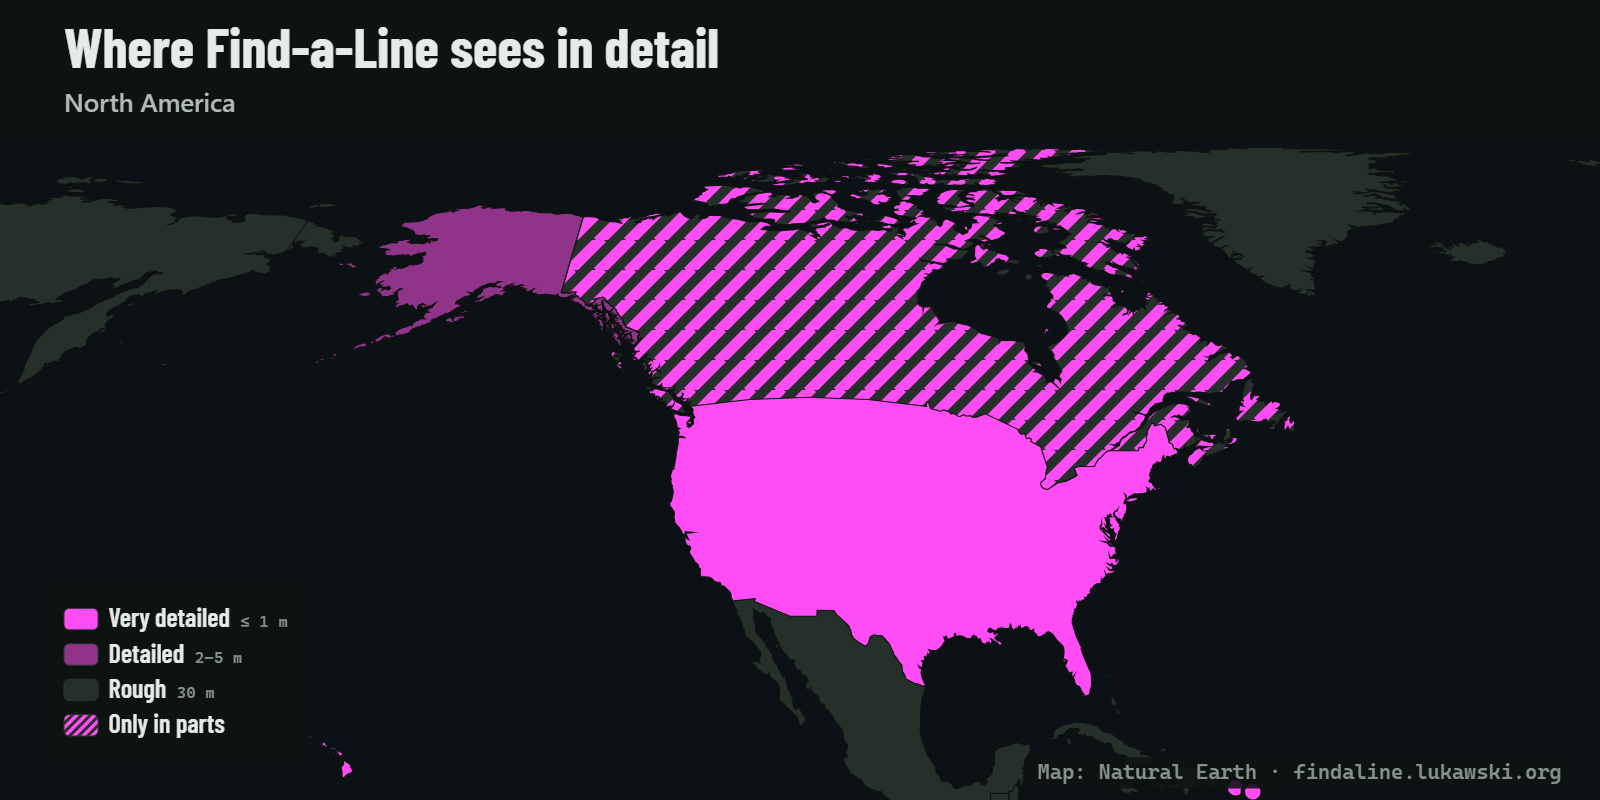
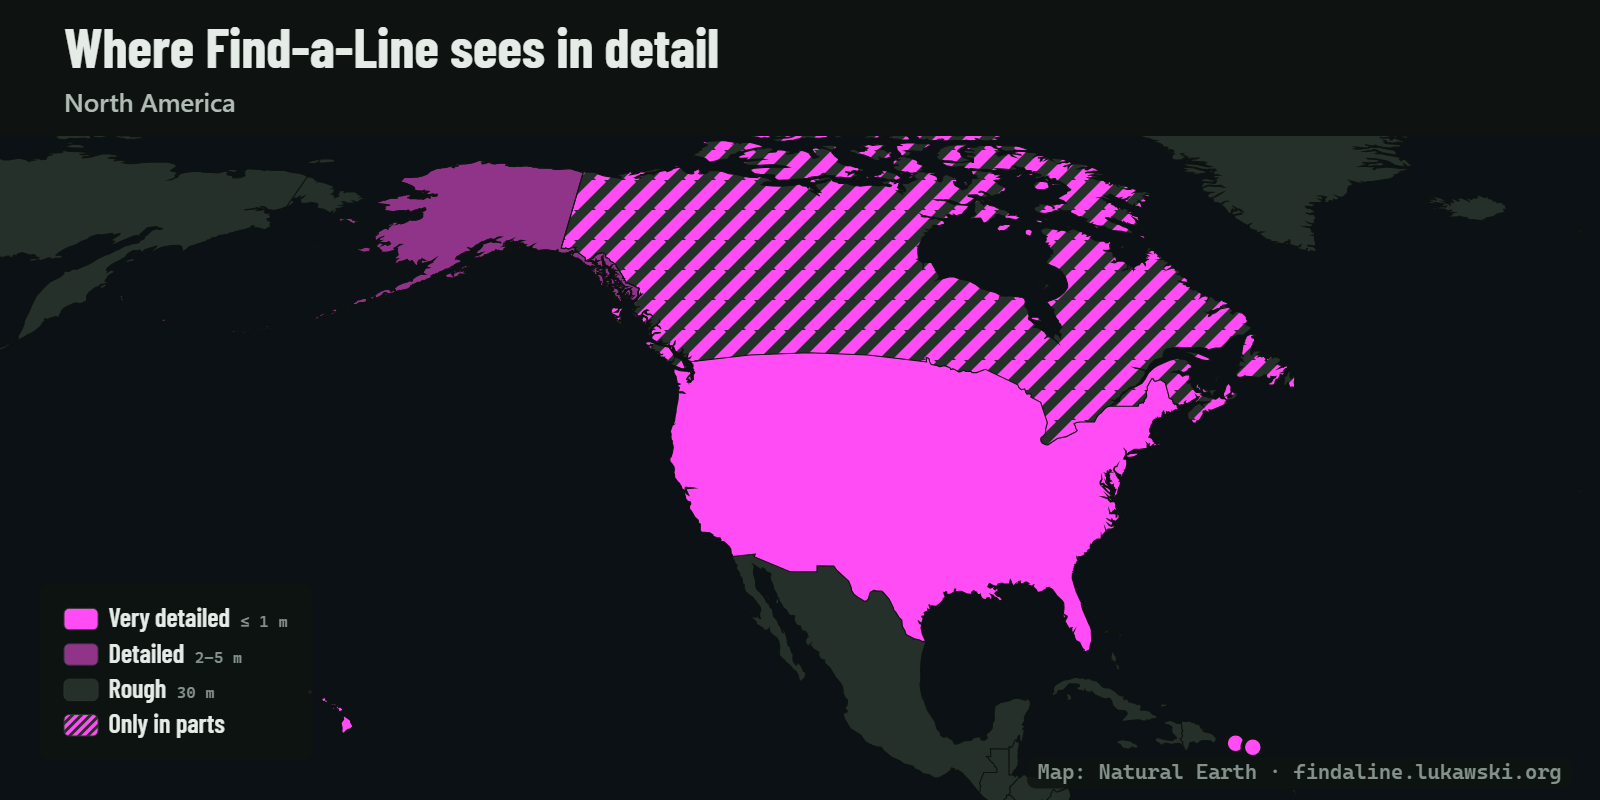
Coverage map, wave 2: cameras centred on the projected box, the tour's full legend, credits without a second label
- camFor centres a zoomed map on the middle of its projected box, not of its latitudes (Equal Earth packs the
  degrees towards the poles: Malta in Europe and Puerto Rico in North America fell off the frame); the world keeps
  its centre
- the tour's legend has the "Only in parts" row while hatched areas are shown
- a place's credit leaves out our "Data:" when the provider's attribution starts with a label of its own
- README and CLAUDE.md: the usage of tools/coverage_media.py; roadmap: the decisions of wave 2
- docs/images/coverage-* rendered again (the world images unchanged)

Stored data: none changed (no migration).

Changed region(s): [[0.0, 0.1562, 0.875, 1.0], [0.9062, 0.25, 0.9375, 0.3438], [0.75, 0.9688, 0.8125, 1.0]]

diff --git a/viewer/src/coverage/media/scenes.ts b/viewer/src/coverage/media/scenes.ts
@@ -28,9 +28,11 @@ export function placeCredit(place: string, lang: Lang): string {
   const c = got().contrast.places[place]?.fine.credits[0];
   if (!c) return "";
   // the year of the searches is in the credits (tools/coverage_contrast.py); the licence once, when the
-  // provider's attribution does not name it already ("©Kartverket, CC BY 4.0, processed")
-  const key = c.attribution.includes(c.licence) ? "media.data_credit_short" : "media.data_credit";
-  return ct(lang, key, {attribution: c.attribution, licence: c.licence});
+  // provider's attribution does not name it already ("©Kartverket, CC BY 4.0, processed"); without our
+  // "Data:" when the attribution starts with a label of its own ("Source: …", "Quelle: …")
+  const named = c.attribution.includes(c.licence);
+  if (/^\p{L}+:\s/u.test(c.attribution)) return named ? c.attribution : `${c.attribution} · ${c.licence}`;
+  return ct(lang, named ? "media.data_credit_short" : "media.data_credit", {attribution: c.attribution, licence: c.licence});
 }
 
 /** A title card: the title, a line under it and the logo's line drawn across above it. */
@@ -241,7 +243,7 @@ export function sceneTour(depth: Depth): Scene {
       chip(ctx, th, areaChip(newest, lang), L.wide ? L.pad : W / 2, y, L.body * .85,
         {align: L.wide ? "left" : "center", dot: levelColour(th, areaOf(newest)!.level)});
     }
-    if (!L.wide) legendAboveFooter(f, {partial: false});
+    if (!L.wide) legendAboveFooter(f);
     mapCredit(f);
   };
 }

diff --git a/viewer/src/coverage/draw/map.ts b/viewer/src/coverage/draw/map.ts
@@ -34,7 +34,11 @@ export function camFor(view: View, box: Box): Camera {
   for (let i = 0; i <= 8; i++) for (const y of [s, n, (s + n) / 2]) pts.push(p([w + (e - w) * i / 8, y])!);
   const xs = pts.map(q => q[0]), ys = pts.map(q => q[1]);
   const k = Math.min(box.w * .92 / (Math.max(...xs) - Math.min(...xs)), box.h * .92 / (Math.max(...ys) - Math.min(...ys)));
-  const cam = {lon, lat, k: view === "world" ? Math.min(k, 1) : k};
+  // the middle of the projected box, not of its latitudes: Equal Earth packs the degrees tighter towards the
+  // poles, so the box's middle latitude lies poleward of its middle and its equator side would fall off the
+  // frame (the world, never zoomed in, keeps its centre)
+  const mid = p.invert!([(Math.max(...xs) + Math.min(...xs)) / 2, (Math.max(...ys) + Math.min(...ys)) / 2])!;
+  const cam = view === "world" ? {lon, lat, k: Math.min(k, 1)} : {lon, lat: mid[1], k};
   cameras.set(key, cam);
   return cam;
 }

diff --git a/CLAUDE.md b/CLAUDE.md
@@ -33,7 +33,7 @@ Finds possible highlines in elevation data: anchors on steep pixels, every pair 
 | `sources/probe.py` | The source probe (`findaline.py sources check`): per source and layer at `Source.sample` on a tiny grid, the index through `Layer.estimate` into a temporary cache, one byte of the first tile (a WCS: DescribeCoverage and a 16 × 16 px GetCoverage), the orthophoto's base tile or GetCapabilities, `--deep` the first tile downloaded; `STRATEGIES` per kind of layer (`window`: 16 × 16 px of a `FileBlocks` file; `getmap`: a 16 × 16 px GetMap of a `WmsrTiles` layer's first tile; `imageserver`: the service's description and a 16 × 16 px exportImage); nothing written to the cache, its own requests under `host_slot`; 120 s per source (a daemon thread); `tests/test_probe.py` |
 | `tools/check_source.py` | Run by hand: the data checks of a new source (docs/regression-tests.md) as one command: shift search against FABDEM / Copernicus / a file, valid share at 1 and 5 m, cached tiles against their source files, alignment with `grid_origin`, whole-metre heights, tiles without data; on a grid of `search.plan_search(with_margin=False)`; PASS/WARN/FAIL, `--json`; `tests/test_check_source.py` |
 | `tools/source_docs.py` | Writes README's "Data sources" table and the ids of the `--source` row from `Source.listing` and the catalogue (`--check`); `tests/test_catalogue.py::test_docs_list_every_source` |
-| `tools/coverage_data.py`, `coverage_shapes.py`, `coverage_contrast.py`, `coverage_media.py` | The coverage map (/coverage): `coverage_data.py` writes `viewer/src/coverage/coverage.json` from `Source.coverage` (`--check`; `tests/test_coverage.py`; no git read: `Coverage.added` holds the dates), `coverage_shapes.py` the outlines `viewer/src/coverage/shapes.json` from Natural Earth 5.1.1 (sha256 pinned, downloads to the temp folder; a country split at `Coverage.box` or its source's `bbox` into a `rest` feature at 30 m; `small` under 10 000 km²). Run by hand: `coverage_contrast.py` (`search` the nine places at 1 m and at 30 m with anchors from 40.5°, `write` docs/coverage/contrast/: hillshades, spots, the 45 m check, the credits dated with the year of the searches), `coverage_media.py` (group `ui`: the media bundle of `node build.mjs --media` in headless Chromium driven through `window.FAL_MEDIA`, ffmpeg of imageio-ffmpeg: the MP4 stories, the README's GIFs and images in docs/images/, the carousel, Stories and the A3 poster) |
+| `tools/coverage_data.py`, `coverage_shapes.py`, `coverage_contrast.py`, `coverage_media.py` | The coverage map (/coverage): `coverage_data.py` writes `viewer/src/coverage/coverage.json` from `Source.coverage` (`--check`; `tests/test_coverage.py`; no git read: `Coverage.added` holds the dates), `coverage_shapes.py` the outlines `viewer/src/coverage/shapes.json` from Natural Earth 5.1.1 (sha256 pinned, downloads to the temp folder; a country split at `Coverage.box` or its source's `bbox` into a `rest` feature at 30 m; `small` under 10 000 km²). Run by hand: `coverage_contrast.py` (`search` the nine places at 1 m and at 30 m with anchors from 40.5°, `write` docs/coverage/contrast/: hillshades, spots, the 45 m check, the credits dated with the year of the searches), `coverage_media.py` (group `ui`: the media bundle of `node build.mjs --media` in a temp folder with `contrast/`, served on 127.0.0.1 with `web.SECURITY_HEADERS` and driven through `window.FAL_MEDIA` in headless Chromium, a page or console error stops it; PNG frames piped to imageio-ffmpeg's ffmpeg, nothing stored between: the MP4 stories (H.264 yuv420p BT.709 30 fps CRF 18), the README's GIFs (one palette) and images in docs/images/ (`readme`), the carousel, Stories and the A3 poster (PNG of 300 dpi, a PDF holding the PNG's IDAT data); every output read back with `ffmpeg -i`; `tests/test_coverage_media.py`) |
 | `tools/sk_tiles.py` | Run by hand: ÚGKK SR's national ZIPs → 2 km COG tiles + `index.json` + dataset card (the local mirror, later Hugging Face) |
 | `tools/ui_shots.py` | Run by hand: screenshots of the app's pages for a visual review (Playwright, group `ui` of pyproject.toml): a desktop (Chromium) and two phones (iPhone 13 on WebKit, Pixel 7 on Chromium) with their device profiles, light and dark, on a public site of a scratch data folder with an administrator signed in (and a run's `map.html`, also by its share link) (the `-limited` pages: an approved user with the site's limits; HTTPS with a certificate of the run: WebKit sends no Secure cookie to http://localhost) |
 | `tools/perf_*.py` | Run by hand: the measurements of docs/performance.md: `perf_profile.py` (cores and memory of a search per stage, a timeline chart; `--cores N` like a worker container), `perf_download.py` (the download phase on an empty cache with N threads), `perf_sqlite.py` (`jobs.sqlite` under K jobs and M open pages), `perf_lines_memory.py` (bytes per line of steps 3, 4 and 5, from a capture of `perf_line_funnel.py`: `--call`, or of the join of a tiled run's tiles and, for tile files that still hold the pixel columns (written before 2026-11-01's wave 5), its steps 4 and 5: `--tiles`; `search.LINE_BYTES`); `perf_profile.py --tracemalloc` the heap per stage |
@@ -78,7 +78,7 @@ Finds possible highlines in elevation data: anchors on steep pixels, every pair 
 - The run data written by `mapping.save_map` (`data.js`, `lines.js`), the list in `runs.write_index` (`runs.js`) and their types in `viewer/src/types.ts`.
 - The text of `lines.csv`, `lines.geojson`, `data.js` and `lines.js` is built column by column (`runs._rows`, `mapping.map_rows`: `runs.column_texts`, `runs.round_floats`), byte for byte what `csv.DictWriter` and `json.dumps` of the rows as Python values with `round()` wrote (not `np.round`: it differs in halfway cases); `tests/test_units.py::test_saved_text_as_before` keeps that old code as the reference. A new column goes into that reference too. The rows are ordered part by part (`runs.rep_positions`, `runs.row_order(groups, lo, hi, at)`: the old stable order, each representative first, then the other members in their order; `tests/test_units.py::_old_row_order` keeps the old lexsort as the reference).
 - README's "Data sources" table and the ids in its `--source` row are generated by `tools/source_docs.py` from the catalogue (`Source.listing`, `countries`, `default_resolution`, `fallbacks`; `test_docs_list_every_source`): change a source, then run it. `choose.OFFLINE_BOXES` is the sources' `offline` boxes in the order of SOURCES (the first holding a point wins: Poland before Slovakia); a source with `regions` (ISO 3166-2, lower case) wins over its country's sources in its regions whatever the order of SOURCES, and its offline boxes are region boxes; `Source.sample` the point of the probe and `tools/check_source.py` (`test_listing_offline_and_sample`). The keys of `settings.ServiceKeys`, the worker's `secrets` in compose.yaml, `deploy/secrets.example/` (every Docker secret of both compose projects has its empty file there, from which `deploy/vps.sh` `secret_files` makes the missing files in `setup` and `update`, Grafana's (`GRAFANA_SECRETS`) for uid 472, the others for 10001: `tests/test_deploy.py::test_secret_files_listed`), secrets/README.md, docs/deployment.md section 8 and the CI's example secrets go together (`tests/test_keys.py::test_keys_are_the_workers_secrets`); a layer naming `keys` is unavailable without them. `Source.neighbours` is declared both ways and names sources whose `offline`/`bbox` boxes touch (`tests/test_neighbours.py::test_declared_neighbours`); a neighbour applies only where those boxes hold a border gap. Pixels from a neighbour are a seam (`Data.joined`: no anchors on its edge), never `filled` (`filled_m`, the map's filter); a filling layer that filled no pixel is not credited (FABDEM too). Help texts name no countries, they point to the table.
-- The coverage map and the catalogue: a source that colours the map has a `coverage`, a gap filler none, one source per area; `viewer/src/coverage/coverage.json` is generated from them (`tools/coverage_data.py`, `--check` in `tests/test_coverage.py`), its schema is `viewer/src/coverage/types.ts` (with the outlines' and contrast.json's: change the tools and the types together). A new area needs its outline (`tools/coverage_shapes.py`; `shapes.json` is LF everywhere (`.gitattributes`) and copied byte for byte to `dist/coverage-shapes.json`), a new region area `region.<id>`, a new note or survey code `note.<code>`/`survey.<code>`, in both `locales/coverage/en.json` and `pl.json` (the same keys; Polish plurals `_one`/`_few`/`_many`/`_other`). Code under `viewer/src/coverage/` uses `ct` of `coverage/i18n.ts`, never a function named `t` (`test_viewer_keys_in_catalogue` reads every `t("...")` against the app's catalogue). Counts in texts come from the data (`count.countries`, `media.verify.note`), never written in. After a change of a source's coverage or of the drawing, `tools/coverage_media.py readme` renders docs/images/coverage-* again; a change of the 30 m comparison is `tools/coverage_contrast.py` and the roadmap's table of priority 2.
+- The coverage map and the catalogue: a source that colours the map has a `coverage`, a gap filler none, one source per area; `viewer/src/coverage/coverage.json` is generated from them (`tools/coverage_data.py`, `--check` in `tests/test_coverage.py`), its schema is `viewer/src/coverage/types.ts` (with the outlines' and contrast.json's: change the tools and the types together). A new area needs its outline (`tools/coverage_shapes.py`; `shapes.json` is LF everywhere (`.gitattributes`) and copied byte for byte to `dist/coverage-shapes.json`), a new region area `region.<id>`, a new note or survey code `note.<code>`/`survey.<code>`, in both `locales/coverage/en.json` and `pl.json` (the same keys; Polish plurals `_one`/`_few`/`_many`/`_other`). Code under `viewer/src/coverage/` uses `ct` of `coverage/i18n.ts`, never a function named `t` (`test_viewer_keys_in_catalogue` reads every `t("...")` against the app's catalogue). Counts in texts come from the data (`count.countries`, `media.verify.note`), never written in. After a change of a source's coverage or of the drawing, `tools/coverage_media.py readme` renders docs/images/coverage-* again (`STORIES`, `LENGTHS`, `FORMATS` and `GROUPS` of the tool repeat `FAL_MEDIA`'s lists: it stops when they differ); a change of the 30 m comparison is `tools/coverage_contrast.py` and the roadmap's table of priority 2.
 - `params.py` help texts and the options table in README.md describe the same options. The web form is generated from `SearchParams` too (`web.schema`): a new field that takes a file path or a secret must be `cli_only`, or the web would accept it. `web_only` fields (`geometry`, a drawn area checked by `area.check_geometry`) are set by the server, left out of the form, argparse and README.
 - The message catalogue `locales/en.json` and its users: every field the web may set has `field.<name>.label`, `.unit` and `.help`, every choice of a choice field (but the sources' names, from `sources.SOURCES`) `choice.<field>.<value>`, every topic of `params.TOPICS` and preset of `params.PRESETS` its title (`tests/test_units.py::test_labels_topics_and_presets`); every literal key of `t("...")` in `viewer/src` exists (`test_viewer_keys_in_catalogue`). `messages.py` and `viewer/src/i18n.ts` format alike (interpolation, plural forms: `tests/test_viewer.py::test_messages_match_python`). A new language is one more `locales/<language>.json` with the same keys. The coverage map has its own catalogue, `locales/coverage/<language>.json` (English and Polish), read only by `viewer/src/coverage/i18n.ts`. Every code of a coded error or note in the Python modules has its `error.<code>` text, and no `error.*` text names a command-line option or a snake_case field (`tests/test_units.py::test_error_codes_in_catalogue`, which reads the codes from the source with `ast`: give a code as a literal, a conditional of literals, or `f"rate_{kind}"`/`f"quota_use_{kind}"`, whose kinds it lists); a text the web page shows goes through a code, never a text with `--option`. `error_info` holds no personal data (a code and the values of the request or the search; redacted on the public site as `error`).
 - `settings.Limits` (fields, `PUBLIC`, `BOUNDS`), the table "Limits of the web app" in README.md and the form: `web.schema(limits)` gives the form `min`/`max` and leaves out what `not_allowed` forbids, `search/SearchPanel.tsx` puts them on its inputs (`Setting`, the ranges of radius, buffer and the key fields). A new limit on a request value is a field plus an entry in `BOUNDS` (or its own check in `check_request`) and a README row; a new quota or rate is a field, a `PUBLIC` default, its check (`Jobs.admission`, `Jobs.use`, `web.within_rate`) and a README row.

diff --git a/README.md b/README.md
@@ -149,7 +149,20 @@ Anchors are taken at ground level, as with the formula. With the default values 
 
 - The map is generated from the catalogue: each source that colours it declares a `coverage` (`Coverage` in [sources/source.py](sources/source.py): its provider, the areas, partial or not, the survey, notes), `uv run tools/coverage_data.py` writes [viewer/src/coverage/coverage.json](viewer/src/coverage/coverage.json) from it (`--check` in the tests), and `uv run tools/coverage_shapes.py` the outlines of the countries and regions from [Natural Earth](https://www.naturalearthdata.com) (public domain; a part of a country its source does not cover, such as France's overseas regions or Svalbard, stays at 30 m). Change a source's coverage or add one, then run both and `node build.mjs` in `viewer/`.
 - *Is 30 m enough?* At nine famous places (Żabi Koń, the Matterhorn, Preikestolen, the Bastei, the Verdon's Imbut, Half Dome, Delicate Arch, the Stawamus Chief, Aoraki) the same national lidar was searched at 1 m and averaged to 30 m (anchors from 40.5°, the first version's rule for 30 m; lines of 30–150 m in a circle of 400 m): the 1 m data shows 1730 highline spots, 30 m finds 685 of them (4 in 10), and 34 of the 127 spots found at 30 m are not there in the 1 m data (a 30 m spot counts as real when a 1 m line has both anchors within 45 m). `uv run tools/coverage_contrast.py search --data-dir <folder>` and `write` make [docs/coverage/contrast/](docs/coverage/contrast/) (hillshades, spots and the check), which the animations show.
-- Animations and images for social media and this README: `uv run tools/coverage_media.py` (group `ui`: `uv sync --group ui`; Node and `npm install` in `viewer/`) renders them from the same drawing code in a headless browser: MP4 videos of four stories (the 30 m against 1 m contrast, the map filling up, how the map grew, a mix) at 10, 18 and 26 seconds, 4:5 and 9:16, light and dark, English and Polish, optionally with music; the README's GIFs and images (`readme`, into `docs/images/`); a carousel, Stories and an A3 poster (PNG and PDF at 300 dpi). See `--help`.
+- Animations and images for social media and this README: `tools/coverage_media.py` renders them from the same drawing code in headless Chromium and encodes them with the ffmpeg of imageio-ffmpeg (group `ui`; Node and `npm ci` in `viewer/` build the page): MP4 videos of four stories (the 30 m against 1 m contrast, the map filling up, how the map grew, a mix) at 10, 18 and 26 seconds, 4:5 and 9:16, light and dark, English and Polish, optionally with music; the README's GIFs and images; a carousel, Stories and an A3 poster.
+
+  ```
+  uv sync --group ui
+  uv run playwright install chromium
+  uv run tools/coverage_media.py video --story contrast|fill|timeline|mix --length short|medium|long \
+      --format 4x5|9x16 --theme light|dark --lang en|pl [--place <id>] [--music <file>] [--out <folder>]
+  uv run tools/coverage_media.py gif [--theme light|dark] [--lang en|pl]
+  uv run tools/coverage_media.py images [--group readme|carousel|stories|poster] [--theme ...] [--lang ...]
+  uv run tools/coverage_media.py all [--music <file>] [--force]    # 96 videos, the GIFs, every image
+  uv run tools/coverage_media.py readme                            # docs/images/coverage-*
+  ```
+
+  Videos are H.264, yuv420p, 30 fps, CRF 18, `+faststart`; `--music` is cut to the video's length and faded out over its last second (AAC), without it there is no audio. The poster is a PNG of 300 dpi and a PDF of one A3 page. The output goes to `--out`, by default `<data folder>/work/coverage-media/`, and every file is checked after writing.
 
 ### OpenStreetMap extracts
 The coastline (`--coastline overpass`) and the cliffs and crags of `--area cliffs` come from the Overpass API, which is often overloaded. `python findaline.py osm download poland` downloads the whole OpenStreetMap data of a country or region from [Geofabrik](https://download.geofabrik.de) (Poland about 1.9 GB, Malta 9 MB; any Geofabrik id or name, e.g. `malta`, `spain`, `malopolskie`) into `cache/<country>/osm-extract/`. From then on the coastline and cliff tiles it covers are built from the extract, without Overpass; the part of a tile outside the extract may be open sea, but a tile reaching into another country is built from extracts only when that country's extract is there too. In the app, the *OSM* tab (on the public site: the administrators' *Admin* tab) lists the regions at the map centre with a *download* button and the downloaded extracts with *update*. Without an extract, Overpass is asked, and a second server (maps.mail.ru) when the first is overloaded. `python findaline.py osm update` brings the extracts up to date with Geofabrik's daily diffs (a few MB), and rebuilds the tiles; `cache update` does it too once an extract is 30 days old.

diff --git a/docs/roadmap.md b/docs/roadmap.md
@@ -285,7 +285,12 @@ README's GIF and images, and videos and images for Facebook and Instagram (READM
   Alaska is *detailed* (IfSAR 5 m statewide) with a note on its 1 m places, not hatched; Canada, Scotland and Tasmania
   are hatched (detailed in parts); France's overseas regions, Svalbard and the Chatham Islands stay at 30 m; Denmark is
   shown (the VPS has the Datafordeler key); the privacy page is unchanged (the page keeps its language, view and
-  scale in the browser only); the media page is never in dist.
+  scale in the browser only); the media page is never in dist. Wave 2 (`tools/coverage_media.py`): credits keep
+  each provider's wording (our "Data:" left out when it starts with a label of its own); a zoomed map is centred on
+  the middle of its projected box (Equal Earth packs degrees towards the poles: Malta and Puerto Rico fell off the
+  frame); the 9:16 videos keep their empty top band (Instagram's own header covers it); the poster's PDF is our own
+  few lines around the PNG's IDAT data (img2pdf would bring pikepdf and qpdf; the user decides); all 96 videos take
+  about 70 min, so only the set the user picks is rendered.
 - **Open**: the music of the 26 s videos (a track with a licence, from the user); posting the videos and images;
   the phone's first screen of /coverage (header and intro take most of it) and the Leaflet view's Europe preset on
   phones; Firefox shows a fallback font in a run's map opened from disk (fonts in `runs/_viewer/`, outside the
